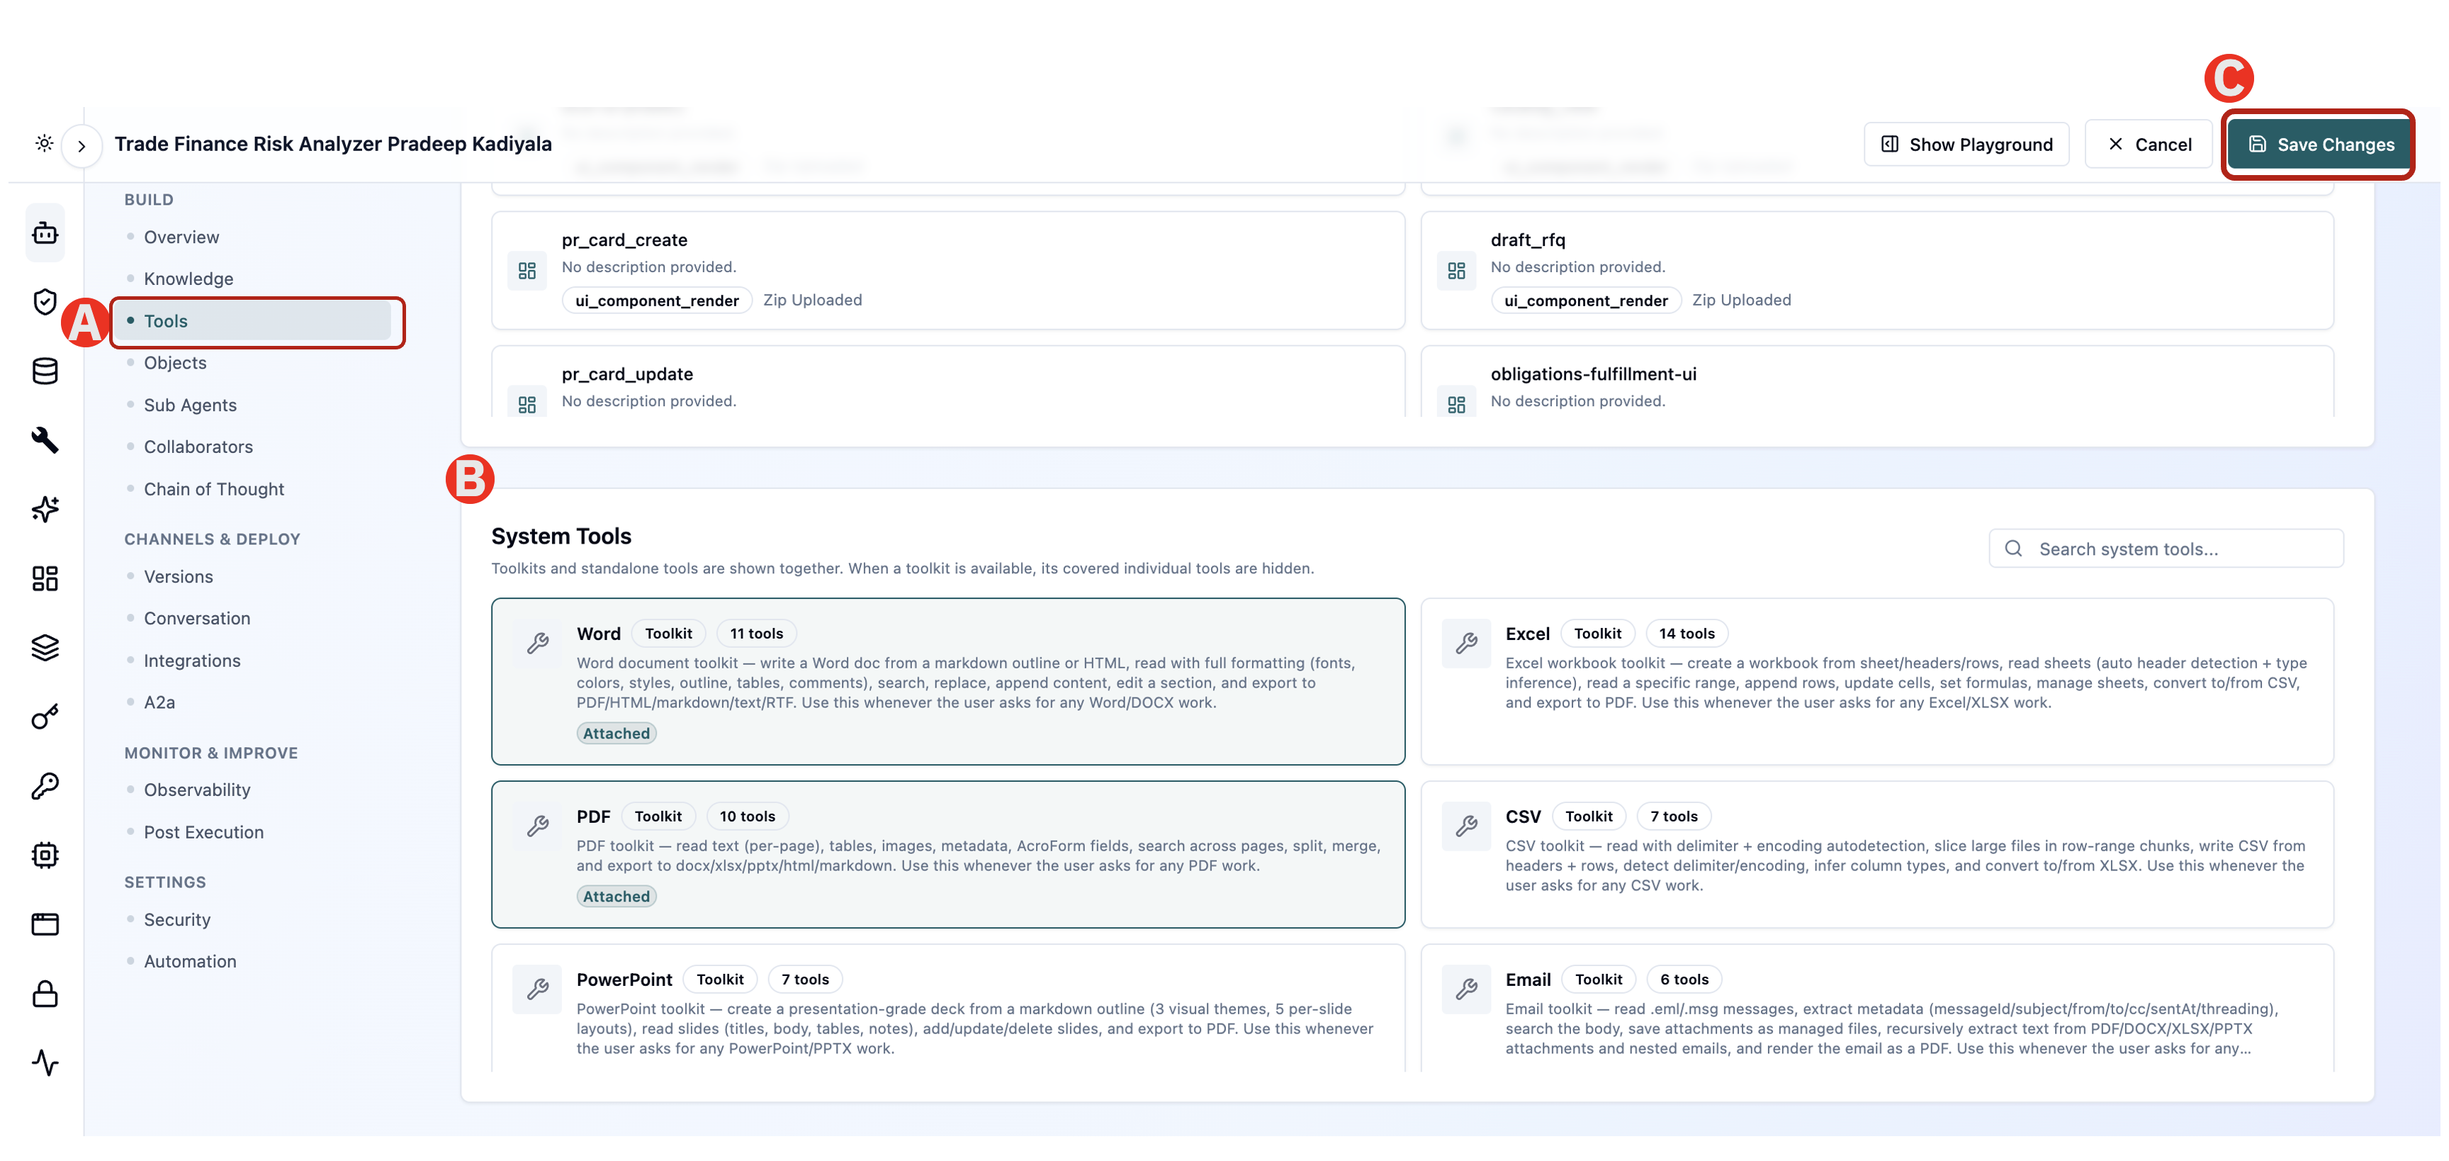
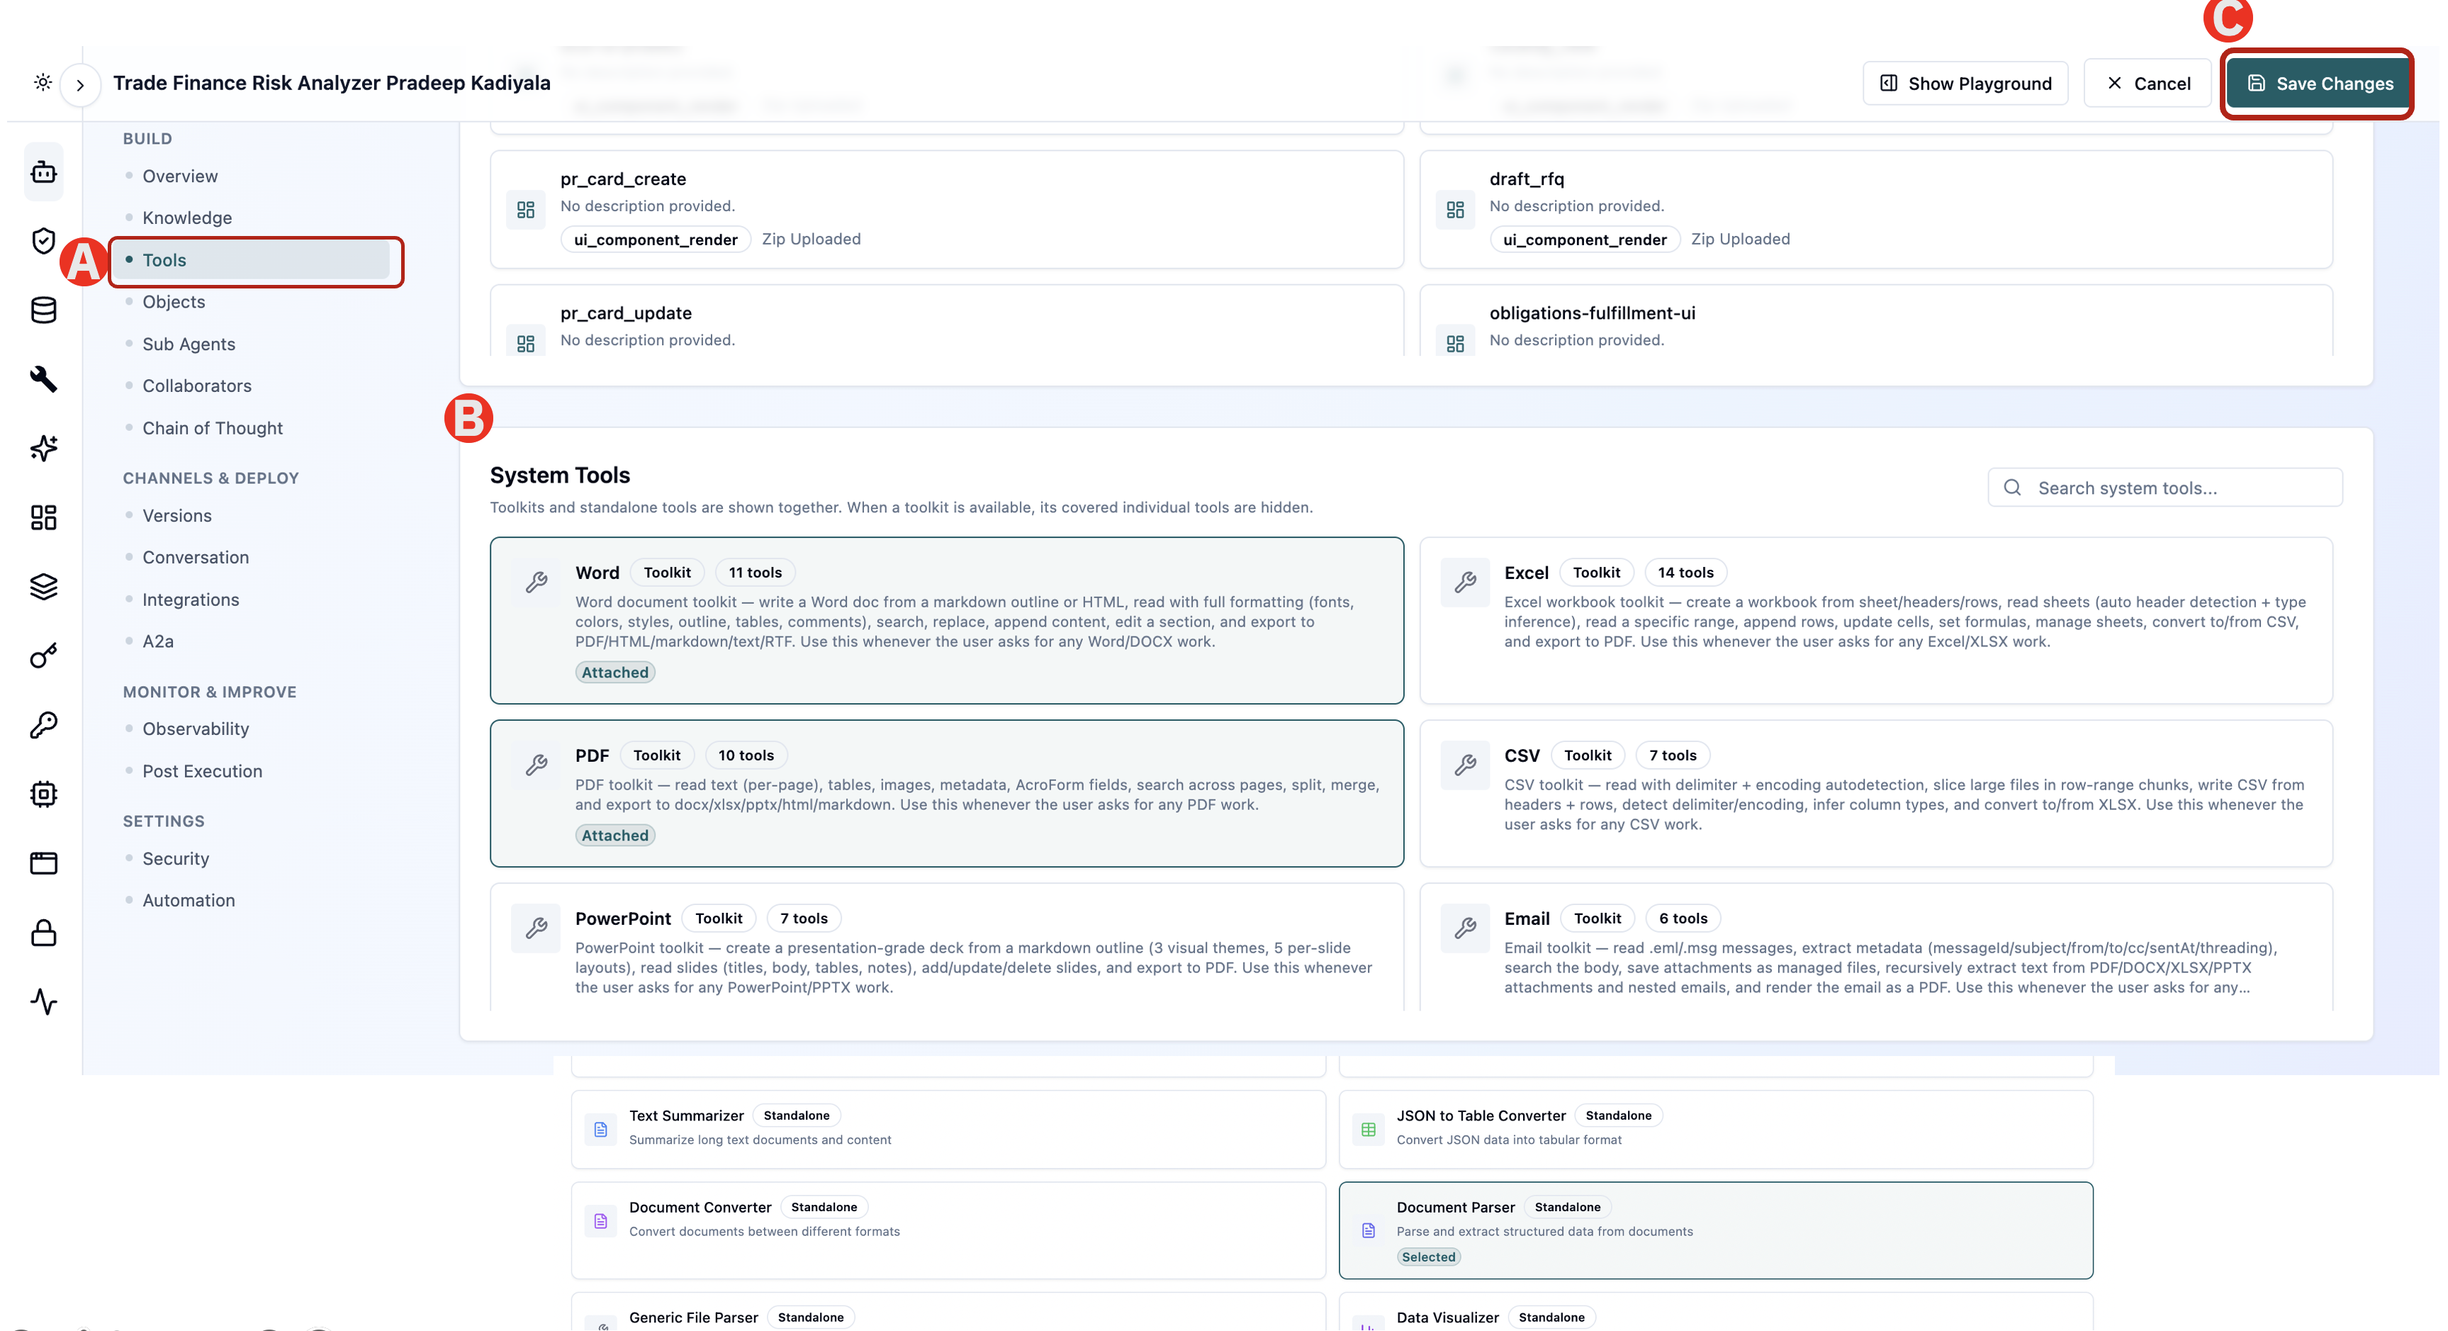
some minor changes

diff --git a/docs/overview/architecture.md b/docs/overview/architecture.md
@@ -1,10 +1,10 @@
 # Architecture Overview
 
-This section describes the high-level architecture of the Trade Finance solution you will build during the labs using IBM Cloud Independent Software Vendor (ISV) Sirion Agent OS and IBM Cloud Services.
+This section describes the high-level architecture of the Trade Finance solution you will build during the labs using IBM Cloud Independent Software Vendor (ISV) Sirion agentOS and IBM Cloud Services.
 
 ---
 
-## Agentic AI on Sirion Agent OS
+## Agentic AI on Sirion agentOS
 
 ![Sirion on IBM Cloud Framework for Financial Services](images/architecture-1.png)
 
@@ -12,9 +12,9 @@ This section describes the high-level architecture of the Trade Finance solution
 
 ### Key Components
 
-#### 1. Sirion Agent OS
+#### 1. Sirion agentOS
 
-Sirion is a Contract Lifecycle management software that is deployed in its on virtual private cloud (VPC). The lab uses a single agent running on agentOS. There is nothing to install and nothing to deploy — the participant works in a browser, the contract is uploaded into the agent’s Playground, and the result is rendered back into the same conversation. The parts of the agent, and what each one does:
+Sirion is a Contract Lifecycle management software that is deployed in its on virtual private cloud (VPC). The lab uses a single agent running on Sirion agentOS. There is nothing to install and nothing to deploy — the participant works in a browser, the contract is uploaded into the agent’s Playground, and the result is rendered back into the same conversation. The parts of the agent, and what each one does:
 
 | Component	| Purpose in this lab |
 | --------- | ------------------- |
@@ -31,11 +31,11 @@ Integration of the Sirion to private LLM for model inferencing is performed thro
 
 | Component |	Purpose in this lab |
 | --------- |	------------------- |
-| Transit Gateway |	Transit Gateway connects two VPC’s – One VPC that has Sirion Agent OS and the other is where the LLM model is hosted. Both VPC’s are connected through a managed hub privately without any public internet exposure |
-| Public Load Balancer |	A Public Load Balancer that supports HTTPS and SSL offloading that will connect to Sirion Agent OS platform endpoint. It allows you to scale the instances and distributes the traffic across multiple instances for public facing applications. |
+| Transit Gateway |	Transit Gateway connects two VPC's – One VPC that has Sirion agentOS and the other is where the LLM model is hosted. Both VPC's are connected through a managed hub privately without any public internet exposure |
+| Public Load Balancer |	A Public Load Balancer that supports HTTPS and SSL offloading that will connect to Sirion agentOS platform endpoint. It allows you to scale the instances and distributes the traffic across multiple instances for public facing applications. |
 | Private Load Balancer |	Private Load Balancer distributes traffic to inference models hosted on NVIDIA GPU based Virtual Server Instances within the private network, with no exposure to public network |
 | Virtual Private Endpoint Gateway |	This is required for custom Application Agents that are running on Serverless Code engine to inference the LLM models through private network with no exposure to public internet. |
-| Cloud Internet Services |	This acts as firewall to Sirion Agent OS public load balancer. |
+| Cloud Internet Services |	This acts as firewall to Sirion agentOS public load balancer. |
 
 #### 3. RedHat AI Inference (Dedicated or Shared)
 

diff --git a/docs/lab1/01-build-agent.md b/docs/lab1/01-build-agent.md
@@ -1,22 +1,22 @@
 # 1.1 Build Agent
 
-Creating the agent from a description. agentOS generates an agent from a plain-language description of what you want it to do. The description does not need to be technical — it needs to be clear about the outcome.
+Creating the agent from a description. Sirion agentOS generates an agent from a plain-language description of what you want it to do. The description does not need to be technical — it needs to be clear about the outcome.
 
 ---
 
-## Step 1 - Login to agentOS
+## Step 1 - Login to Sirion agentOS
 
-You can login by calling the url http://ibm-techxchange.sirioncloud.io:8000/agentos/login
+You can login by calling the url https://ibm-techxchange.sirioncloud.io/agentos/login
 
-agentOS credentials are provided to each attendees. Use your credentials to login.
+Sirion agentOS credentials are provided to each attendees. Use your credentials to login.
 
 ![agentOS-login-screen](images/login-agentOS.png)
 
 ## Step 2 —	Describe the Agent
 
-After you login you will be taken to  agentOS home page. Here you will see the following
+After you login you will be taken to  Sirion agentOS home page. Here you will see the following
 
-(A) This is the Main Menu to navigate through different sections of agentOS
+(A) This is the Main Menu to navigate through different sections of Sirion agentOS
 
 (B) You can expand and collapse the main menu using the arrow icon
 
@@ -43,7 +43,7 @@ Check the description in the text box (A), then click Build Agent (B).
 
 ![build-agent-screen](images/build-agent-1.png)
 
-Wait while agentOS builds the agent. A Generating Agent… notification appears and the AI builder workflow runs. This takes roughly 30 seconds.
+Wait while Sirion agentOS builds the agent. A Generating Agent… notification appears and the AI builder workflow runs. This takes roughly 30 seconds.
 
 ![build-agent-screen](images/build-agent-2.png)
 
@@ -51,13 +51,15 @@ Wait while agentOS builds the agent. A Generating Agent… notification appears 
 
 ## Step 4 - Review Agent Configuration
 
-agentOS has now produced a complete draft. Before running anything, read what it created — this is where you learn what an agent is actually made of. On the Overview tab, review the agent’s Basic Configuration:
+Sirion agentOS has now produced a complete draft. Before running anything, read what it created — this is where you learn what an agent is actually made of. On the Overview tab, review the agent's Basic Configuration:
 
 ![Agent-Review-Image](images/review-agent-1.png)
 
 **(A)** Agent Name — the display name, generated from your description. Add your first and last name to the end of it so you can find your agent easily in a shared environment.
 
 **(B)** Slug — the URL-friendly identifier, unique per client. It is used when the agent is called from another system.
+
+> IMPORTANT: Save this slug value from the text field. You will use this later while deploying a banking application
 
 **(C)** Description — the description you supplied, retained for reference.
 
@@ -109,8 +111,9 @@ Click Save Changes if you have adjusted anything, then move on to the next major
 
 Before moving to the next section, confirm:
 
-- [ ] Wait until the agentOs builds the agent
+- [ ] Wait until the Sirion agentOS builds the agent
 - [ ] Review the Agent and its configurations
+- [ ] Make sure to save the "Slug" text-field value
 
 ---
 

diff --git a/docs/README.md b/docs/README.md
@@ -4,7 +4,7 @@
 
 ### TechXchange 2026
 
-> **Welcome!** In this hands-on lab, you will build Agents to solve a business problem on IBM Cloud with Sirion Agent OS and nVIDIA GPU-accelerated infrastructure and address enterprise challenges in compliance, security, and data sovereignty.
+> **Welcome!** In this hands-on lab, you will build Agents to solve a business problem on IBM Cloud with Sirion agentOS and nVIDIA GPU-accelerated infrastructure and address enterprise challenges in compliance, security, and data sovereignty.
 By the end of the lab, participants will have practical experience building and operating compliant AI solutions and will leave with proven deployment patterns, best practices, and reference architectures that can be applied across financial services, healthcare, government, and other highly regulated industries
 
 ---
@@ -24,7 +24,7 @@ By the end of these labs you will have:
 
 - ✅ Agentic AI Workflow for Contract Lifecycle Management Solution
 - ✅ Inferencing LLMs hosted on IBM Enterprise nVIDIA GPUs within IBM Cloud infrastructure
-- ✅ Deploy Serverless Applications integrating with Risk Analyser Agent running agentOS platform
+- ✅ Deploy Serverless Applications integrating with Risk Analyser Agent running Sirion agentOS platform
 - ✅ Understand Industry Security and Compliance on IBM Cloud
 
 ---
@@ -34,7 +34,7 @@ By the end of these labs you will have:
 | Lab | Topic | Duration |
 |-----|-------|----------|
 | Section 1 | Introduction | 10 min |
-| Section 2 | Building Agentic AI Workflow on Sirion Agent OS | 30 min |
+| Section 2 | Building Agentic AI Workflow on Sirion agentOS | 30 min |
 | Section 3 | Deploying application on serverless code engine | 30 min |
 | Section 4 | Understanding Security and Compliance | 10 min |
 | Section 5 | Questions | 10 min |
@@ -47,7 +47,10 @@ By the end of these labs you will have:
 
 Navigate using the **sidebar** on the left or the **arrows** at the bottom of each page. Use the **search bar** (top of sidebar) to jump to any topic.
 
-> 💡 All commands in this guide can be copied with a single click using the **Copy** button that appears on hover.
+```text
+All commands in this guide can be copied with a single click 
+using the **Copy** button that appears on hover.
+```
 
 ---
 

diff --git a/docs/lab2/02-create-run-app.md b/docs/lab2/02-create-run-app.md
@@ -1,6 +1,6 @@
 # 2.2 Deploy Agentic AI Application
 
-This is a client application that is integrated to the Agent that you created on agentOS. 
+This is a client application that is integrated to the Agent that you created on Sirion agentOS. 
 This application is already packaged as an image in container registry
 The application will be deployed on the serverless project platform
 
@@ -13,7 +13,7 @@ The application will be deployed on the serverless project platform
 ## Step - 2: Configure the Application
 
 You will configure the application with pre-built apllication image as below.
-The application is already pre-built and the application image is in the container registry.
+The application is already pre-built and the application image is in the dockerhub container registry.
 
 ![create-app-image](images/create-app.png)
 
@@ -27,7 +27,7 @@ The application is already pre-built and the application image is in the contain
 
 ## Step - 3: Configure the Image
 
-You will configure the image from public Docker hub container registry. You will be provided with the docker hub credentials with READ-ONLY access to the application image.
+You will configure the image from public Docker hub container registry. You are provided with the docker hub credentials with READ-ONLY access to the application image in pre-requisites.
 
 > Note: A full Enterprise IBM Cloud account will allow you to have the application images in private container registry. For this lab we will be using docker hub.
 
@@ -53,6 +53,12 @@ A pop window will open when you click on "Create registry secret +". Here you wi
 (C) Provide the username. This will provided to you in the printed "Lab Requirements" document when you attend the lab
 
 (D) Provide the "Access token". This will be provided to you in the printed "Lab Requirements" document when you attend the lab
+
+> If you dont find the dockerhub API Token in pre-requisites you can copy it from here
+
+```text
+dckr_pat_F0alXKlSSN82I8dyMd7RtVBiP3w
+```
 
 (E) Click "Create" button
 

diff --git a/docs/overview/prerequisites.md b/docs/overview/prerequisites.md
@@ -21,7 +21,7 @@ You will need two account details for this lab
 
 ### Credentials:
 
-When you will login to url http://ibm-techxchange.sirioncloud.io:8000/agentos/login. You will need the following credentials.
+When you will login to url https://ibm-techxchange.sirioncloud.io/agentos/login. You will need the following credentials.
 
 | Name | Vaule | Details |
 | ---- | ----- | ------- |
@@ -41,7 +41,7 @@ When you will login to url https://cloud.ibm.com/authorize/lab1623txuser1201
 | ---- | ------- |
 | IBM Cloud Username | You will recieve the detials in the handout during the lab |
 | IBM Cloud password | You will recieve the detials in the handout during the lab |
-| Docker Hub API Token | You will recive API token in the handout. It will be used to pull the application image from Docker Hub and deploy in code engine |
+| Docker Hub API Token | ```dckr_pat_F0alXKlSSN82I8dyMd7RtVBiP3w``` |
 
 
 

diff --git a/docs/lab1/05-api.md b/docs/lab1/05-api.md
@@ -10,7 +10,7 @@ To generate API Key follow the steps
 
 (A) Under Main Menu click on API Keys
 
-(B) Get the API endpoint and save it temporarily in a text file
+(B) API endpoint are used for integrations
 
 (C) Click Generate API Key on top right corner. A dialogue box will open to Generate API Key
 
@@ -34,18 +34,18 @@ Enter the following fields
 
 > Sometimes the copy button doesnt work so manually select and copy the API Key
 
+> IMPORTANT: This API Key will be used while integrating the Banking Application to the Agent you created
 ---
 
 ## ✅ Checkpoint
 
 Before you got to next section make sure you save the:
 
-- [ ] API Endpoint 
-- [ ] API Key.
+- [ ] Created API Key.
 
 ---
 
-**You have successfully completed the first section "Build Agents on agentOS".**
+**You have successfully completed the first section "Build Agents on Sirion agentOS".**
 
 ## 🎉 Congratulations! 🎉
 

diff --git a/docs/lab2/01-create-project.md b/docs/lab2/01-create-project.md
@@ -4,10 +4,10 @@ In this section you will deploy an enterprise-hosted Agentic Application with Ch
 
 Before you start this section, make sure you have the following
 
-- [x] agentOS API Endpoint to the Agent you created
-- [x] agentOS API Key
+- [x] Sirion agentOS Agent Slug value
+- [x] Sirion agentOS API Key
 
-> If you dont have the API Endpoint and API Key, you can retrive by following the instruction in the previous section [Generate Agent API Key](../lab1/05-api.md)
+> If you dont have the Agent Slug value and API Key, you can retrive by following the instruction in the previous section [Generate Agent API Key](../lab1/05-api.md)
 
 ## Create Project on Serverless Code Engine
 

diff --git a/docs/lab2/03-test-app.md b/docs/lab2/03-test-app.md
@@ -7,7 +7,7 @@ The backend of the application is integrated with Agent created in Sirion agentO
 Before you start you need to make sure you have the following
 
 - [x] Public Domain URL created in Serverless Project in previous step
-- [x] API Token created in Sirion agentOS (**Build Agents on agentOS > [Generate Agent API Key](lab1/05-api.md)**)
+- [x] API Token created in Sirion agentOS (**Build Agents on Sirion agentOS > [Generate Agent API Key](lab1/05-api.md)**)
 
 ## Step - 1: Configure the Application
 

diff --git a/docs/lab1/02-configure-agent.md b/docs/lab1/02-configure-agent.md
@@ -36,7 +36,7 @@ In the left rail of the agent, under BUILD,
 
 (A) Click Tools in the left rail under the "BUILD" menu. 
 
-(B) Scroll to System Tools (which is below UI Components) — these are the toolkits agentOS provides out of the box.
+(B) Scroll to System Tools (which is below UI Components) — these are the toolkits Sirion agentOS provides out of the box.
 
 Select Word, PDF, Document Parser. 
 

diff --git a/docs/lab1/04-deterministic-ui.md b/docs/lab1/04-deterministic-ui.md
@@ -249,7 +249,7 @@ This schema is the contract between the agent and the component
 
 (B) Click Create Component 
 
-agentOS uploads the bundle and confirms UI component created — Bundle uploaded and ready to serve.
+Sirion agentOS uploads the bundle and confirms UI component created — Bundle uploaded and ready to serve.
 
 ## Step 4 - Review the UI Component
 

diff --git a/docs/_sidebar.md b/docs/_sidebar.md
@@ -4,7 +4,7 @@
   * [Introduction](README.md)
   * [Prerequisites](overview/prerequisites.md)
 
-* **Build Agents on agentOS**
+* **Build Agents on Sirion agentOS**
   * [1.1 Build an Agent](lab1/01-build-agent.md)
   * [1.2 Configure the Agent](lab1/02-configure-agent.md)
   * [1.3 Run the Agent](lab1/03-run.md)
